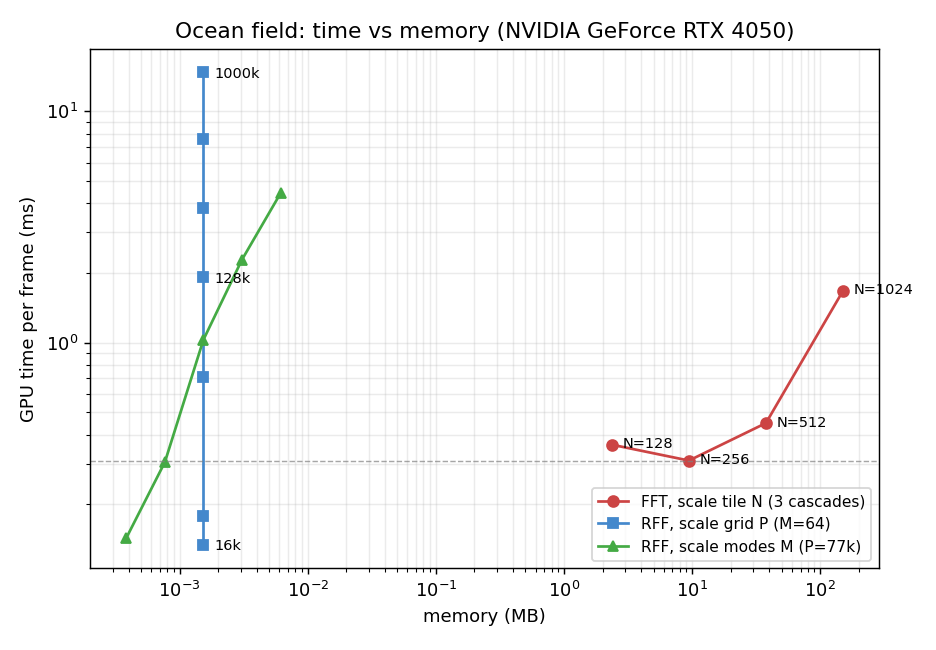
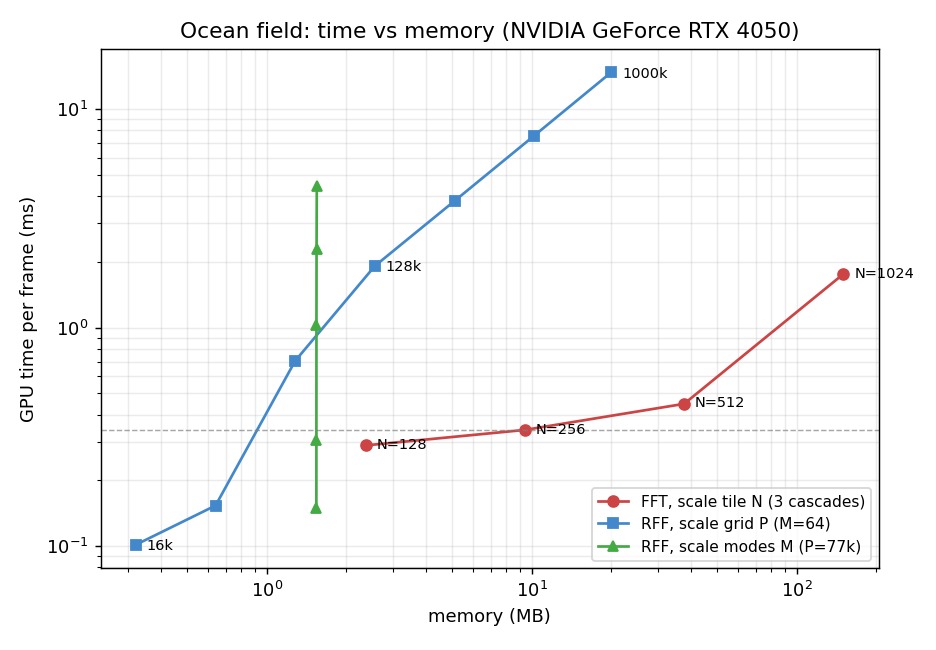
Correct the memory accounting in the scaling experiment
- Producing P points is O(P) output, so RFF memory grows with the grid like the FFT;
  it is not grid-independent. The mode table is only the parameters.
- pareto.py now counts per-point output for both: RFF is ~10x lighter at equal speed
  and ~20x slower at equal memory, a real tradeoff rather than a free win.
- Fix the stored-state table row and the memory prose to match.

diff --git a/analysis/pareto.py b/analysis/pareto.py
@@ -50,7 +50,10 @@ def make_rff(M, P, L=256.0):
     return frame
 
 CASC = 3                       # a production FFT ocean runs ~3 spectral bands (cascades)
-RFF_BYTES = 24                 # wave-table per mode: kop(16)+amp(4)+phase(4)
+TABLE = 24                     # RFF wave-table per mode: kop(16)+amp(4)+phase(4)
+OUT = 20                       # per-point output produced: displacement + normal (5 floats)
+def rff_mem(P, M):             # parameters plus the output produced at P points
+    return (TABLE*M + OUT*P)/1e6
 
 # FFT: scale the tile N (3 cascades)
 fftN = [128, 256, 512, 1024]
@@ -63,28 +66,35 @@ for N in fftN:
 M0 = 64
 Ps = [16_000, 32_000, 64_000, 128_000, 256_000, 512_000, 1_000_000]
 g_t = [gpu_time(make_rff(M0, P))[0] for P in Ps]
-g_mem = [RFF_BYTES*M0/1e6]*len(Ps)
+g_mem = [rff_mem(P, M0) for P in Ps]      # output is O(P), so memory grows with the grid
 
-# RFF: scale modes M at fixed P=77k (this moves memory)
+# RFF: scale modes M at fixed P=77k
 P0 = 77_000
 Ms = [16, 32, 64, 128, 256]
 m_t = [gpu_time(make_rff(M, P0))[0] for M in Ms]
-m_mem = [RFF_BYTES*M/1e6 for M in Ms]
+m_mem = [rff_mem(P0, M) for M in Ms]      # output fixed by P0, so this barely moves
 
-# iso-speed grid: where the RFF grid line meets the FFT N=256 time
-t_ref = fft_t[1]
-def interp(xs, ys, y):
+# interpolate y at x and x at y on a monotone-ish curve
+def at(xs, ys, x):
+    for i in range(1, len(xs)):
+        if (xs[i-1]-x)*(xs[i]-x) <= 0:
+            f = (x-xs[i-1])/(xs[i]-xs[i-1]); return ys[i-1]+f*(ys[i]-ys[i-1])
+    return ys[-1]*x/xs[-1]
+def inv(xs, ys, y):
     for i in range(1, len(ys)):
         if (ys[i-1]-y)*(ys[i]-y) <= 0:
             f = (y-ys[i-1])/(ys[i]-ys[i-1]); return xs[i-1]+f*(xs[i]-xs[i-1])
     return xs[-1]*y/ys[-1]
-P_iso = interp(Ps, g_t, t_ref)
+
+t_ref, mem_ref = fft_t[1], fft_mem[1]
+P_speed = inv(Ps, g_t, t_ref)        # grid size that matches the FFT's time
+P_mem   = inv(Ps, g_mem, mem_ref)    # grid size that matches the FFT's memory
 print(f"GPU: {name}")
-print(f"FFT N=256, 3 cascades: {t_ref:.3f} ms, {fft_mem[1]:.1f} MB, tile = {256*256:,} pts (tiles)")
-print(f"iso-speed grid: RFF matches that time at P ~ {P_iso:,.0f} pts "
-      f"(~{P_iso/(256*256):.2f}x the tile), unique, no repeat")
-print(f"iso-memory: RFF wave table = {RFF_BYTES*M0} B at any grid size; "
-      f"~{fft_mem[1]/(RFF_BYTES*M0/1e6):.0f}x under the FFT regardless of P")
+print(f"FFT N=256, 3 cascades: {t_ref:.3f} ms, {mem_ref:.1f} MB, 65k-pt tile (tiles infinitely)")
+print(f"iso-speed : RFF ~{P_speed:,.0f} unique pts at the FFT's time  -> {rff_mem(P_speed, M0):.2f} MB")
+print(f"iso-memory: RFF ~{P_mem:,.0f} unique pts at the FFT's memory -> {at(Ps, g_t, P_mem):.2f} ms")
+print("(RFF unique points do not repeat; the FFT tile does. Output counted for both;")
+print(" the fused vertex shader streams its output, so real RFF memory is a bit below this.)")
 
 plt.figure(figsize=(7.2, 5.0))
 plt.loglog(fft_mem, fft_t, "o-", color="#c44", label="FFT, scale tile N (3 cascades)")

diff --git a/README.md b/README.md
@@ -40,7 +40,7 @@ On an RTX 4050 (`analysis/bench_gpu.py`):
 | | FFT Tessendorf (3 cascades) | RFF (M=64, with LOD) |
 |---|---|---|
 | GPU / frame | ~0.55 ms | ~0.90 ms |
-| Memory | 5 to 12 MB (spectra + maps) | ~2 KB (wave table) |
+| Stored state | 5 to 12 MB (spectrum + field maps) | ~2 KB mode table, field streamed |
 | Spectral detail | thousands of modes | 64 modes |
 | Normals | extra transforms | analytic, free |
 | Query any point (buoyancy) | sample a texture | direct h(x,z,t) |
@@ -54,9 +54,10 @@ problem (see Tessendorf's notes, and Ubisoft's
 [tiling-and-blending writeup](https://www.ubisoft.com/en-us/studio/laforge/news/5WHMK3tLGMGsqhxmWls1Jw/making-waves-in-ocean-surface-rendering-using-tiling-and-blending)
 on the machinery used just to hide tile repetition).
 
-RFF trades that throughput for memory and a simple pipeline: roughly 1000x less memory, a
-single shader, exact analytic normals, the surface value at any point for cheap buoyancy,
-coverage that stays seamless, and Nyquist LOD for free.
+RFF trades that throughput for a tiny stored footprint and a simple pipeline: an M-mode table
+with the field streamed per vertex rather than a stored grid spectrum and maps (the Scaling
+section has the full memory tradeoff), a single shader, exact analytic normals, the surface
+value at any point for cheap buoyancy, coverage that stays seamless, and Nyquist LOD for free.
 
 Use FFT for a detailed AAA ocean. Reach for RFF when memory or pipeline simplicity matter
 (mobile, web, many small water bodies, lots of physics queries), or when you want seamless
@@ -68,24 +69,26 @@ pass, foam, detail normal map, and reflection, measures about 2 to 3 ms at 720p 
 
 ### Scaling to match the FFT
 
-The FFT's tile size N sets coverage, memory, and time together, then tiles to fill any area.
-RFF splits those into two knobs: grid size P (points evaluated) for coverage and speed, and
-mode count M for spectral detail and memory. So matching the FFT in each sense lands on a
-different knob (`analysis/pareto.py`, on the 4050; laptop clocks jitter, so read the shape).
+Both methods are sums of spectral modes. The FFT keeps one amplitude per grid wavenumber, so
+its spectrum is O(grid), and it stores the field as textures, then tiles that field over any
+area. RFF keeps M modes (a few KB) and evaluates the surface per vertex, so its coverage is
+unique with no repeat. Producing P points is O(P) output for either method, so total memory
+grows with the grid for both. Scaling the RFF grid to the FFT reference on the 4050
+(`analysis/pareto.py`; laptop clocks jitter, so read the shape):
 
 ![pareto](media/pareto.png)
 
-- Match speed by grid: at the FFT's ~0.3 ms for three cascades (N=256, a 65k-point tile that
-  repeats), RFF evaluates about 40k unique points, roughly 0.6x the tile and non-repeating.
-  Same order of magnitude.
-- Match memory by grid: not reachable. The RFF state is the wave table, about 1.5 KB at
-  M=64, independent of grid size, so it stays roughly 6000x under the FFT's ~9 MB at any grid.
-  Reaching the FFT's memory means scaling modes instead, into the hundreds of thousands, where
-  the compute would cost seconds per frame.
+- Match speed: at the FFT's ~0.34 ms for three cascades (a 65k-point tile that repeats), RFF
+  evaluates about 43k unique points using under 1 MB, against the FFT's ~9 MB. So at equal
+  speed RFF is roughly 10x lighter.
+- Match memory: at the FFT's ~9 MB, RFF covers about 470k unique points, but that takes
+  ~7 ms, roughly 20x the FFT. The FFT spends most of its memory on the grid spectrum and the
+  stored field; RFF spends it on output points.
 
-On the plot, scaling RFF's grid moves it straight up (more time, flat memory) while scaling
-the FFT tile moves it up and to the right. RFF stays about three orders of magnitude to the
-left, which is the memory story; the FFT wins on coverage per millisecond because it tiles.
+So it is a tradeoff, and RFF is not grid-independent: its mode table is tiny, but the rest of
+its memory is the output it produces, the same O(grid) the FFT pays. RFF reaches memory below
+the FFT's smallest useful tile and stays lighter at equal speed, while the FFT wins on large
+unique fields and tiles to cover unbounded area at fixed cost.
 
 ## Run
 